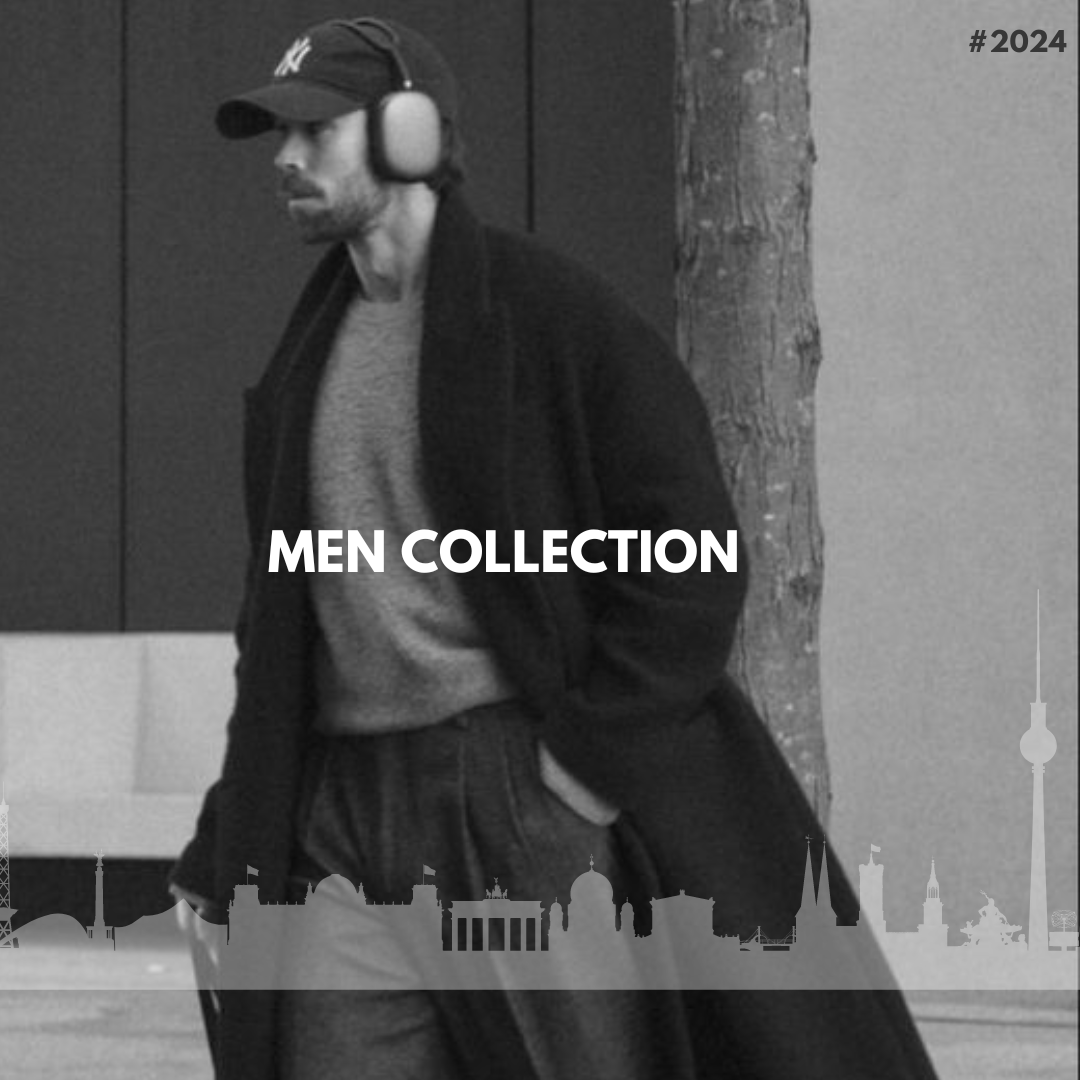
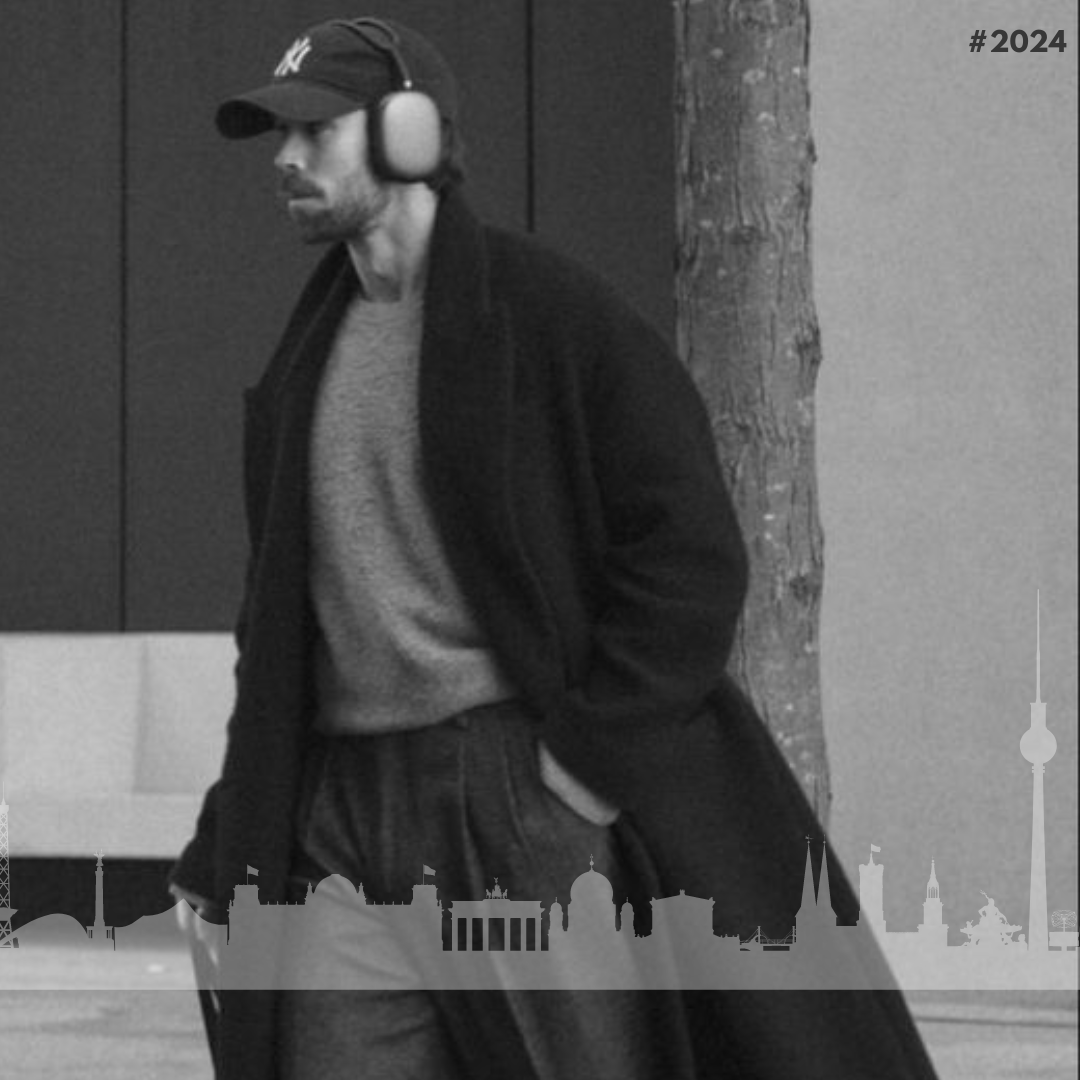
Upload 02/03

Changed region(s): [[0.2444, 0.4889, 0.7028, 0.55]]

diff --git a/index.html b/index.html
@@ -6,6 +6,7 @@
         <link rel="stylesheet" href="index.css"> 
         <link rel="stylesheet" href="https://cdnjs.cloudflare.com/ajax/libs/font-awesome/6.5.1/css/all.min.css">
         <link rel="stylesheet" href="index.js/">
+        <
     </head>
     <body>
         <header>
@@ -36,13 +37,13 @@
          </div>
          <div class="slide_show">
             <div class="item">
-             <img src="imagine\Beige Brown Minimalist Casual Style Banner Landscape.png" alt="Picture_intro1">
+             <img src="imagine\Poster_1.png" alt="Picture_intro1">
             </div>
             <div class="item">
-                <img src="imagine\Beige Brown Minimalist Casual Style Banner Landscape.png" alt="Picture_intro1">
+                <img src="imagine\women_clothing.png" alt="Picture_intro1">
             </div>
             <div class="item">
-                <img src="imagine\Beige Brown Minimalist Casual Style Banner Landscape.png" alt="Picture_intro1">
+                <img src="imagine\men_clothing.png" alt="Picture_intro1">
             </div>
             <div class="item">
                 <img src="imagine\Beige Brown Minimalist Casual Style Banner Landscape.png" alt="Picture_intro1">
@@ -56,7 +57,8 @@
          </div>
          <!-- Dots -->
          <ul class="dots" ; style="list-style-type:disc;">
-            <li class="active"></li>
+            <li class="animation"></li>
+            <li></li>
             <li></li>
             <li></li>
          </ul>
@@ -69,11 +71,13 @@
             <a href="">
              <img src="imagine\men_clothing.png" width="350px">
             </a>
+            <span class="text_collection_men">MEN COLLECTION</span>
           </div>
           <div class="women_collection">
             <a href ="">
                 <img src ="imagine\women_clothing.png" width="350px">
             </a>
+            <span class="text_collection_women">WOMEN COLLECTION</span>
           </div>
          </div>
         </div>
@@ -141,5 +145,6 @@
                 </span> 
             </div>
         </footer>
+        <script src="intro_space.js"></script>
     </body>
 </html>

diff --git a/index.css b/index.css
@@ -39,16 +39,23 @@ header{
 .home_bar ul{
     display: flex;
 }
+.home_bar ul li a{
+    text-decoration: none;
+    color:#000000;
+}
+.home_bar ul li:hover a {
+    border-bottom: 1px solid black;
+    padding: 0.2cm;
+}
 
 .intro_space{
-    /* width: 100%; */
     width: 1300px;
     max-width: 100vw;
     padding: 0;
-    height: 700px;
+    height: 900px;
     margin: 1cm auto;
     position: relative;
-    /* overflow:hidden;*/
+    overflow:hidden;
 } 
 .intro_space .slide_show{
     position: absolute;
@@ -57,6 +64,7 @@ header{
     height: 100%;
     display: flex;
     width:max-content;
+    transition: 1s;
 }
 .intro_space .slide_show img{
     width: 1300px;
@@ -68,6 +76,7 @@ header{
     position: absolute;
     top: 45%;
     left: 0%;
+    padding-right: 5%;
     width:100%;
     display: flex;
     justify-content: space-between;
@@ -103,9 +112,15 @@ header{
     background-color:#fff;
     margin: 20px;
     border-radius: 20px;
+    transition: 1s;
 }
-.dots li.active{
+.dots li.animation{
     width:30px;
+}
+@media screen and (max-width: 768px) {
+    .intro_space{
+        height: 500px;
+    }
 }
 /*------------COLLECTION--------------*/
 #collection_block{
@@ -132,6 +147,27 @@ header{
 #collection_block .content_collection .men_collection{
     max-width: 350px;
     overflow: hidden;
+}
+
+.text_collection_men{
+    display: block;
+    color: #ececec;
+    font-weight: 1000;
+    font-size: 20px;
+    font-family:Verdana, Geneva, Tahoma, sans-serif;
+    position: relative;
+    bottom: 50%;
+    text-align: center;
+}
+.text_collection_women{
+    display: block;
+    color:#000000;
+    font-weight: 1000;
+    font-size: 20px;
+    font-family:Verdana, Geneva, Tahoma, sans-serif;
+    position: relative;
+    bottom: 50%;
+    text-align: center;
 }
 
 #collection_block .content_collection .men_collection a:hover img{

diff --git a/intro_space.js b/intro_space.js
@@ -1,0 +1,46 @@
+let list = document.querySelector('.intro_space .slide_show');
+let items = document.querySelectorAll('.intro_space .slide_show .item');
+let dots = document.querySelectorAll('.intro_space .dots li');
+let bNext = document.getElementById('btnNext');
+let bPrev = document.getElementById('btnPrev');
+
+let active = 0;
+let lengthIntro = items.length - 1;
+
+bPrev.onclick = function() {
+    if (active - 1 < 0)
+       active = lengthIntro;
+    else active -=1; 
+    loadSlide();
+}
+
+bNext.onclick = function(){
+    if ( active + 1 > lengthIntro )
+        active = 0;
+    else active += 1;
+    loadSlide();
+}
+
+dots.forEach((li,pos) => {
+    li.addEventListener('click',function(){
+        active = pos;
+        loadSlide(); 
+    })
+})
+
+let autoSlide = setInterval(() => {bNext.onclick()},4000);
+
+function loadSlide(){
+    let checkLeft = items[active].offsetLeft;
+    list.style.left = -checkLeft + 'px';
+
+    let activeDots = document.querySelector('.intro_space .dots li.animation');
+    activeDots.classList.remove('animation');
+    dots[active].classList.add('animation');
+    clearInterval(autoSlide);
+    autoSlide = setInterval(() => {bNext.onclick()},4000);
+
+}
+
+
+
